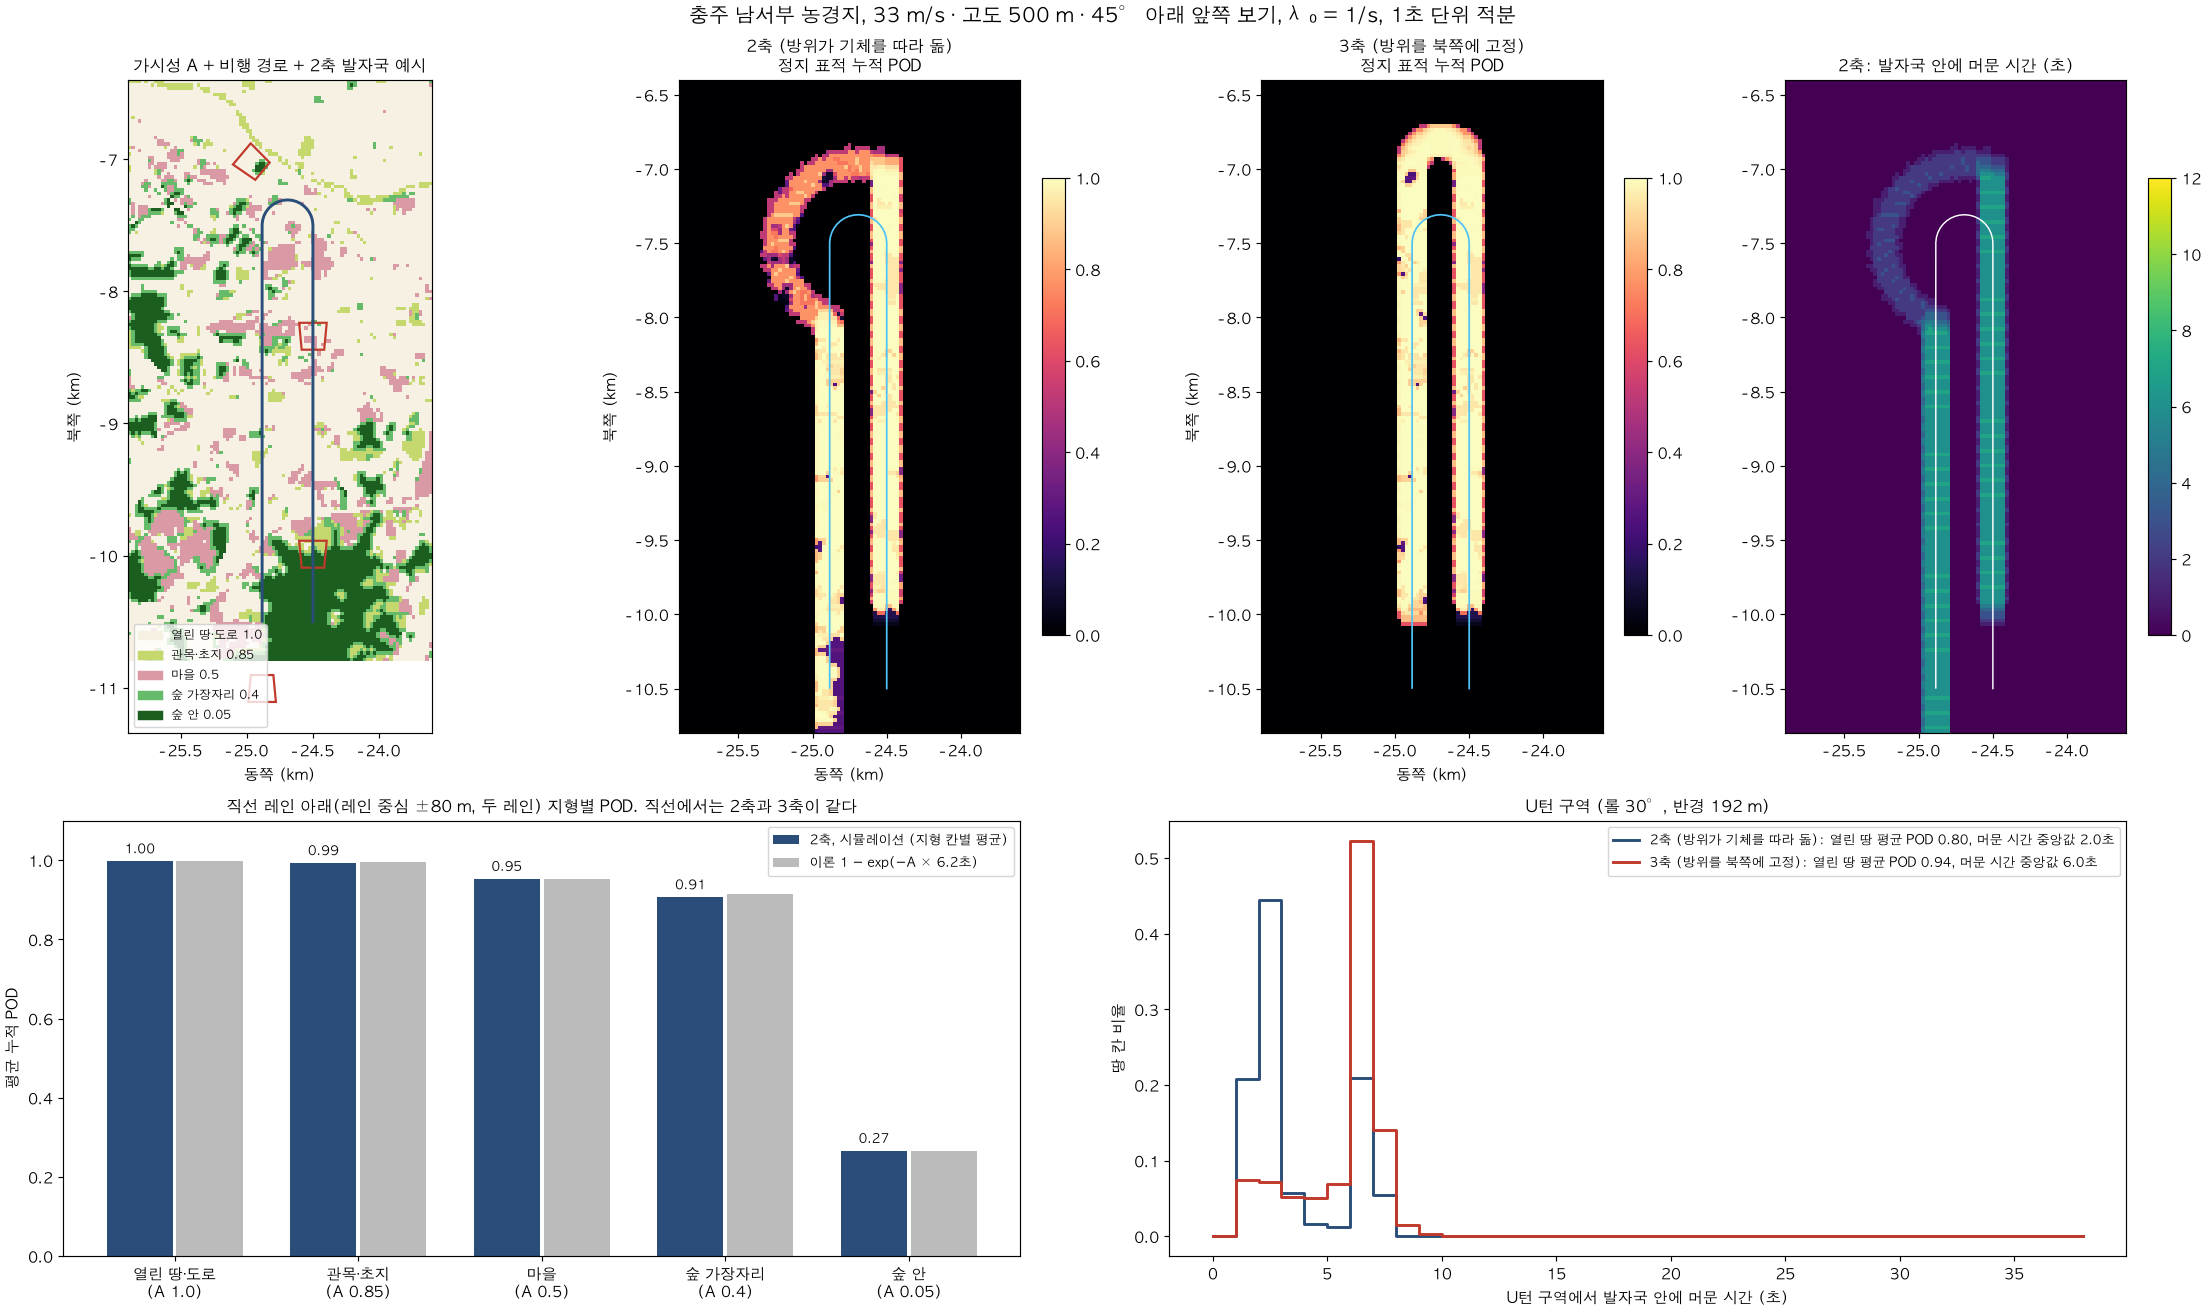
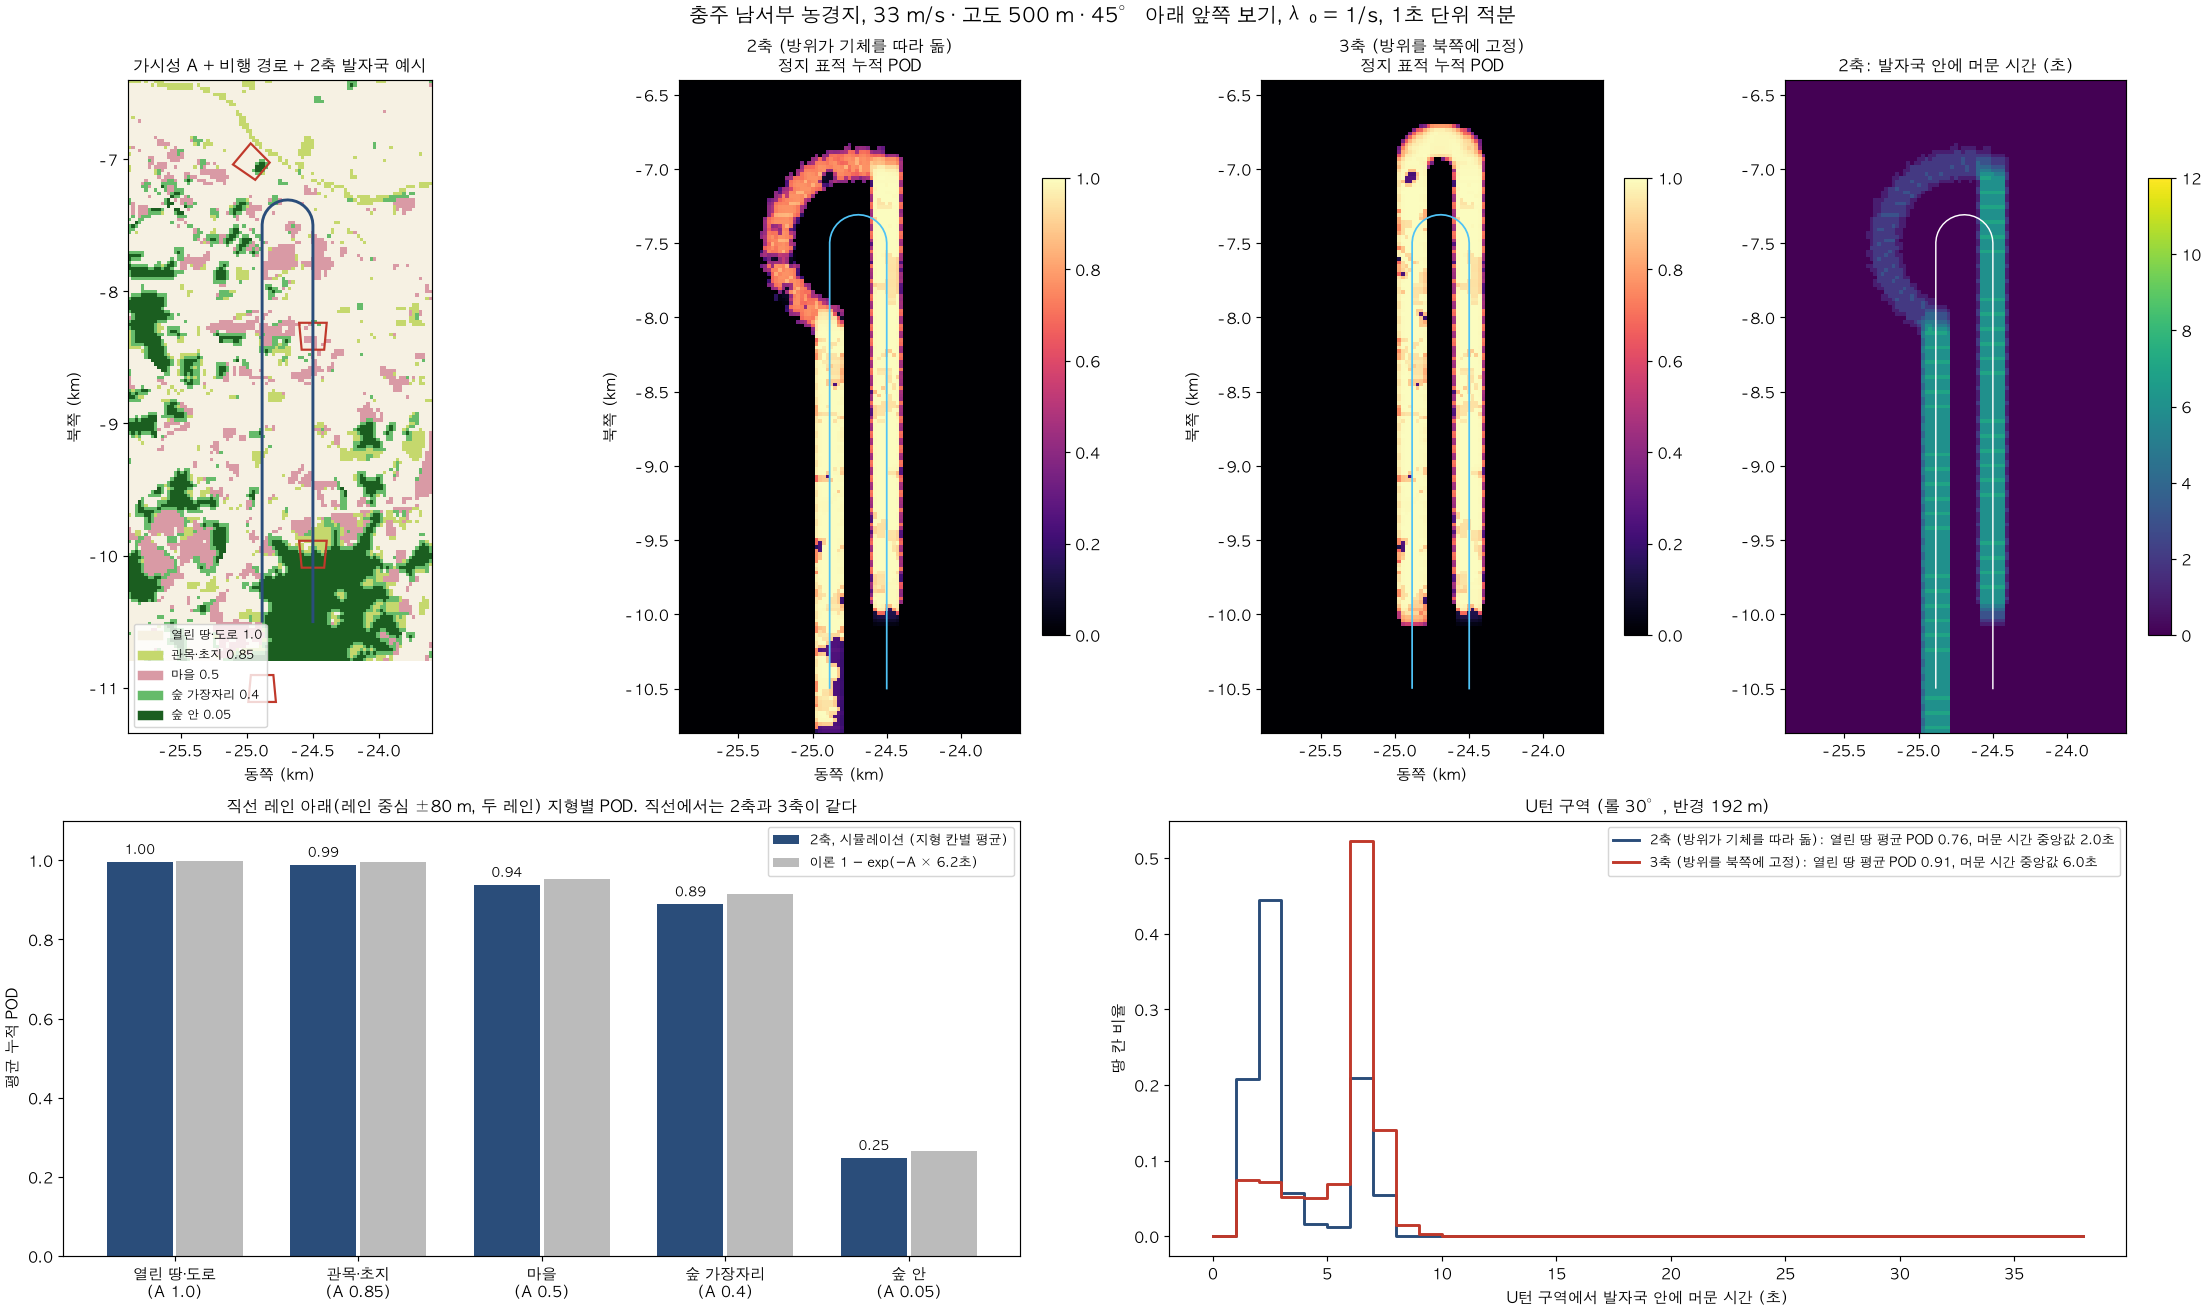
Detection: particles projected into the camera image, image-position factor towards the edges; lateral range curves and gimbal roll needed to look inside a turn

diff --git a/rl_search/scripts/real_map/detection_edge.py b/rl_search/scripts/real_map/detection_edge.py
@@ -1,0 +1,97 @@
+"""Image-position factor of the detection model and the gimbal roll needed to look inside a turn.
+Figure: rl_search/data/real/chungju/detection_edge.png
+
+Run from the repository root:
+    python -m rl_search.scripts.real_map.detection_edge
+"""
+from __future__ import annotations
+
+from dataclasses import replace
+
+import numpy as np
+import matplotlib
+matplotlib.use("Agg")
+import matplotlib.pyplot as plt
+
+from rl_search.detection import DetectionConfig, camera_frame, footprint, image_coords
+from rl_search.real_terrain import DATA
+
+plt.rcParams["font.family"] = ["AppleGothic", "sans-serif"]
+plt.rcParams["axes.unicode_minus"] = False
+V, G = 33.0, 9.81
+
+
+def lateral_range(cfg, A, with_edge=True, dt=0.2):
+    """POD of one straight pass (north at 33 m/s) for ground points at each cross-track offset."""
+    xs = np.arange(-125, 126, 2.5)
+    ys = np.linspace(800, 1800, 41)                       # ground well inside the pass
+    X, Y = np.meshgrid(xs, ys)
+    px, py = X.ravel(), Y.ravel()
+    expo = np.zeros(len(px))
+    for t in np.arange(0, 2600/V, dt):
+        frame = camera_frame(np.pi/2, 0.0, cfg)
+        uu, vv, fr = image_coords(px, py, 0.0, V*t, frame, cfg)
+        inside = fr[0] & (np.abs(uu[0]) <= 1) & (np.abs(vv[0]) <= 1)
+        g = cfg.edge_factor(uu[0], vv[0]) if with_edge else 1.0
+        expo += np.where(inside, cfg.lam0*A*g*dt, 0.0)
+    return xs, (1 - np.exp(-expo)).reshape(X.shape).mean(axis=0)
+
+
+def main():
+    cfg = DetectionConfig()
+    fig, axs = plt.subplots(1, 3, figsize=(21, 6.6), layout="constrained")
+    # (a) g on the ground footprint, UAV at the origin heading north
+    ax = axs[0]
+    X, Y = np.meshgrid(np.arange(-130, 131, 2.0), np.arange(380, 640, 2.0))
+    uu, vv, fr = image_coords(X.ravel(), Y.ravel(), 0.0, 0.0, camera_frame(np.pi/2, 0.0, cfg), cfg)
+    inside = fr[0] & (np.abs(uu[0]) <= 1) & (np.abs(vv[0]) <= 1)
+    g = np.where(inside, cfg.edge_factor(uu[0], vv[0]), np.nan).reshape(X.shape)
+    im = ax.pcolormesh(X, Y, g, cmap="viridis", vmin=.4, vmax=1, shading="auto")
+    q = footprint(0, 0, np.pi/2, 0, cfg)[0]
+    ax.plot(*np.vstack([q, q[:1]]).T, color="black", lw=1.2)
+    ifov = np.radians(cfg.hfov_deg)/cfg.image_px
+    for (yy, R, lab) in ((q[0, 1], 646, "가까운 변"), (q[1, 1], 790, "먼 변")):
+        ax.text(0, yy + (-14 if lab == "가까운 변" else 6), f"{lab}: 사거리 {R} m, 표적 3 m ≈ {cfg.target_m/(R*ifov):.0f}픽셀",
+                ha="center", fontsize=9)
+    fig.colorbar(im, ax=ax, shrink=.8, label="화면 위치 배율 g")
+    ax.set_aspect("equal"); ax.set_xlabel("옆 방향 (m)"); ax.set_ylabel("기체에서 앞쪽 거리 (m)")
+    ax.set_title(f"화면 위치 배율 g: 축마다 |좌표| ≤ {cfg.edge_plateau}에서 1, 가장자리 {cfg.edge_value}\n(모서리 {cfg.edge_value**2:.2f})", fontsize=11)
+    # (b) lateral range curves
+    ax = axs[1]
+    for A, c, lab in ((1.0, "#2a4d7a", "열린 땅 A 1.0"), (0.4, "#2e7d32", "숲 가장자리 A 0.4"), (0.05, "#8d6e63", "숲 안 A 0.05")):
+        xs, p1 = lateral_range(cfg, A, False)
+        _, p2 = lateral_range(cfg, A, True)
+        ax.plot(xs, p1, color=c, ls=":", lw=1.5)
+        ax.plot(xs, p2, color=c, lw=2.2, label=f"{lab}: 중심 {p2[len(xs)//2]:.2f}, ±80 m {p2[np.argmin(abs(xs-80))]:.2f}")
+    ax.axvspan(-85.5, 85.5, color="#eeeeee", zorder=0); ax.text(0, .03, "가까운 변 폭 171 m", ha="center", fontsize=8)
+    ax.set_xlabel("레인 중심에서 옆 방향 거리 (m)"); ax.set_ylabel("한 번 지날 때 POD (정지 표적)")
+    ax.set_ylim(0, 1.03); ax.legend(fontsize=8, loc="center", bbox_to_anchor=(.5, .45))
+    ax.set_title("횡거리 곡선: 점선 = 배율 없음, 실선 = 화면 위치 배율 적용", fontsize=11)
+    # (c) gimbal roll to keep looking at the centre of the orbit
+    ax = axs[2]
+    R = np.linspace(80, 1500, 300)
+    phi = np.degrees(np.arctan(V**2/(G*R)))
+    dep = np.degrees(np.arctan(cfg.alt_m/R))
+    need = (90 - dep) + phi
+    ax.plot(R, need, color="#c0392b", lw=2.2, label="선회 중심을 보는 데 필요한 짐벌 롤")
+    ax.plot(R, phi, color="#2a4d7a", lw=1.6, ls="--", label="기체 롤 (앞쪽 45° 보기 때 보정량)")
+    ax.plot(R, 90 - dep, color="#7f8c8d", lw=1.2, ls=":", label="수직에서 안쪽으로 꺾는 각 (90° − 내려보는 각)")
+    ax.axhline(cfg.gimbal_roll_deg, color="black", lw=1); ax.text(1480, cfg.gimbal_roll_deg + 1.5, "짐벌 롤 한계 45° (지금 가정)", ha="right", fontsize=9)
+    i = np.argmin(need)
+    ax.plot(R[i], need[i], "o", color="#c0392b"); ax.annotate(f"최소 {need[i]:.0f}° (반경 {R[i]:.0f} m)", (R[i], need[i]),
+                                                              xytext=(20, -25), textcoords="offset points", fontsize=9)
+    ax.set_xlabel("선회 반경 (m)"); ax.set_ylabel("각도 (°)"); ax.set_ylim(0, 95)
+    ax.set_title(f"롤·피치 짐벌로 선회 중심 응시 ({V:.0f} m/s, 고도 {cfg.alt_m:.0f} m)", fontsize=11); ax.legend(fontsize=8, loc="upper right")
+    fig.savefig(DATA/"chungju"/"detection_edge.png", dpi=110)
+    plt.close(fig)
+    for A in (1.0, 0.4, 0.05):
+        xs, p1 = lateral_range(cfg, A, False); _, p2 = lateral_range(cfg, A, True)
+        sw1, sw2 = np.trapezoid(p1, xs), np.trapezoid(p2, xs)
+        print(f"A {A}: centre {p1[len(xs)//2]:.3f}->{p2[len(xs)//2]:.3f}, 80 m {p1[np.argmin(abs(xs-80))]:.3f}->{p2[np.argmin(abs(xs-80))]:.3f}, "
+              f"sweep width {sw1:.0f}->{sw2:.0f} m")
+    for r_ in (200, 300, 500, 800):
+        j = np.argmin(abs(R - r_)); print(f"orbit R {r_}: bank {phi[j]:.1f}, inward {90-dep[j]:.1f}, gimbal roll {need[j]:.1f}")
+
+
+if __name__ == "__main__":
+    main()

diff --git a/docs/real_map_todo.md b/docs/real_map_todo.md
@@ -3,7 +3,39 @@
 SAROPS 방식 탐색([SAROPS 방식 적용 검토 TODO](sarops_approach_todo.md))을 실제 지형 위로 옮기는 작업을 관리한다.
 날짜는 한국 시간.
 
-## 2026-11-06 · 탐지 모듈 1단계 (최신 인계)
+## 2026-11-06 · 화면 위치 배율과 짐벌 조향 (최신 인계)
+
+**현재 위치:** 사용자 요청 두 가지를 반영하고 답했다(`detection_edge.png`, `scripts/real_map/detection_edge.py`). 2단계(충주 시나리오)는 아직이다.
+
+**1. 화면 가장자리로 갈수록 POD를 낮춘다** (사용자 결정, 표적 크기 3 m × 3 m)
+- particle을 카메라 화면 좌표(u 가로, v 세로, 각각 −1~1)로 투영하도록 바꿨다(`camera_frame`, `image_coords`).
+  - 화면 안 판정이 기존 사다리꼴 판정과 같은지 확인했다. 무작위 점 2만 개, 롤 0~60°에서 불일치 0이다.
+- 화면 위치 배율 g(u, v) = h(u)·h(v)를 둔다. h는 |x| ≤ 0.6에서 1이고, 가장자리(|x| = 1)에서 0.7까지 직선으로 준다. 모서리는 0.49다.
+  - 값은 가정이다. 이유는 가장자리에서 차가 잘림, 렌즈 주변부, 먼 변이 작게 찍힘이다.
+- 표적 3 m는 화면에서 가까운 변 34픽셀, 먼 변 28픽셀이다(1920픽셀, 땅 해상도 8.9~10.9 cm). YOLO에 충분해서 해상도 항은 계속 1이다.
+  - 가장자리에서 잘리는 폭(1.5 m)도 발자국에 비해 작아 g에 포함한 것으로 본다.
+- 한 번 지날 때 POD(횡거리 곡선)는 아래와 같다.
+
+| 가시성 | 레인 중심 | ±80 m | 실효 탐색 폭 |
+|---|---|---|---|
+| 열린 땅 (A 1.0) | 0.997 | 0.991 | 202 → 199 m |
+| 숲 가장자리 (A 0.4) | 0.90 | 0.85 | 180 → 172 m |
+| 숲 안 (A 0.05) | 0.25 | 0.21 | 51 → 45 m |
+
+  - 열린 땅에서는 거의 그대로이고, 부분 가림에서 가장자리 손실이 보인다.
+- 충주 레인 시험(`detection_check.png`)도 다시 돌렸다.
+  - 직선: 열린 땅 0.996, 마을 0.94, 숲 가장자리 0.89, 숲 안 0.25
+  - U턴 열린 땅: 2축 0.76, 3축 0.91
+  - 그림의 회색 막대는 g가 없는 이론값이다.
+
+**2. 롤·피치 짐벌로 선회 안쪽을 볼 수 있나** (사용자 질문)
+- 롤축이 시선을 옆으로, 피치축이 앞뒤로 꺾으므로, 2축으로도 롤 범위 안에서는 땅 위 한 점을 조향해 볼 수 있다.
+- 단, 선회하면 기체가 안쪽으로 기울어 배가 바깥을 향한다. 그래서 선회 중심을 보려면 짐벌 롤 = (90° − 내려보는 각) + 기체 롤이 필요하다.
+  - 33 m/s, 고도 500 m: 반경 237 m에서 최소 50°, 반경 500 m에서 57°, 반경 800 m에서 66°다.
+  - 짐벌 롤 한계가 45°면 선회 중심 응시는 불가능하다. 약 ±60° 이상이면 가능하다.
+- 탐색 중에는 앞쪽 45° 고정이 기본이다. 조향(표적 추적, 응시)은 탐지 뒤 확인 단계에서 쓸 기능으로 남긴다. 짐벌 롤 범위가 필요하다.
+
+## 2026-11-06 · 탐지 모듈 1단계
 
 **현재 위치:** POD 설계(아래 절)를 `rl_search/detection.py`로 구현했다. 충주에서 직선 레인과 U턴의 땅 위 POD를 확인했다
 (`rl_search/data/real/chungju/detection_check.png`, `scripts/real_map/detection_check.py`). 다음은 2단계(충주 시나리오)다.
